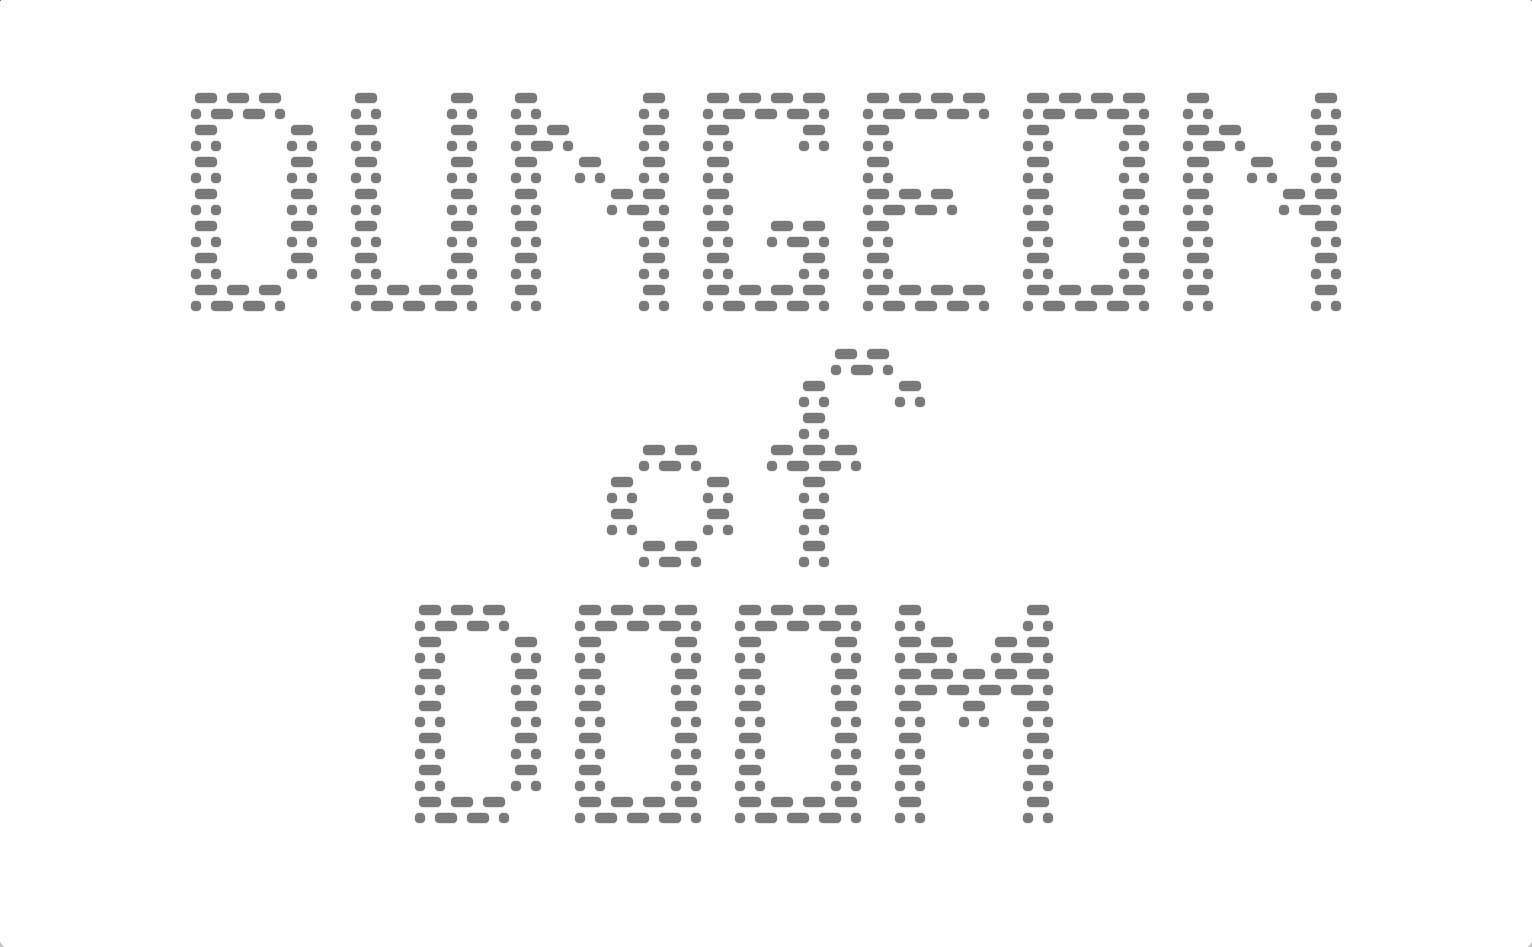
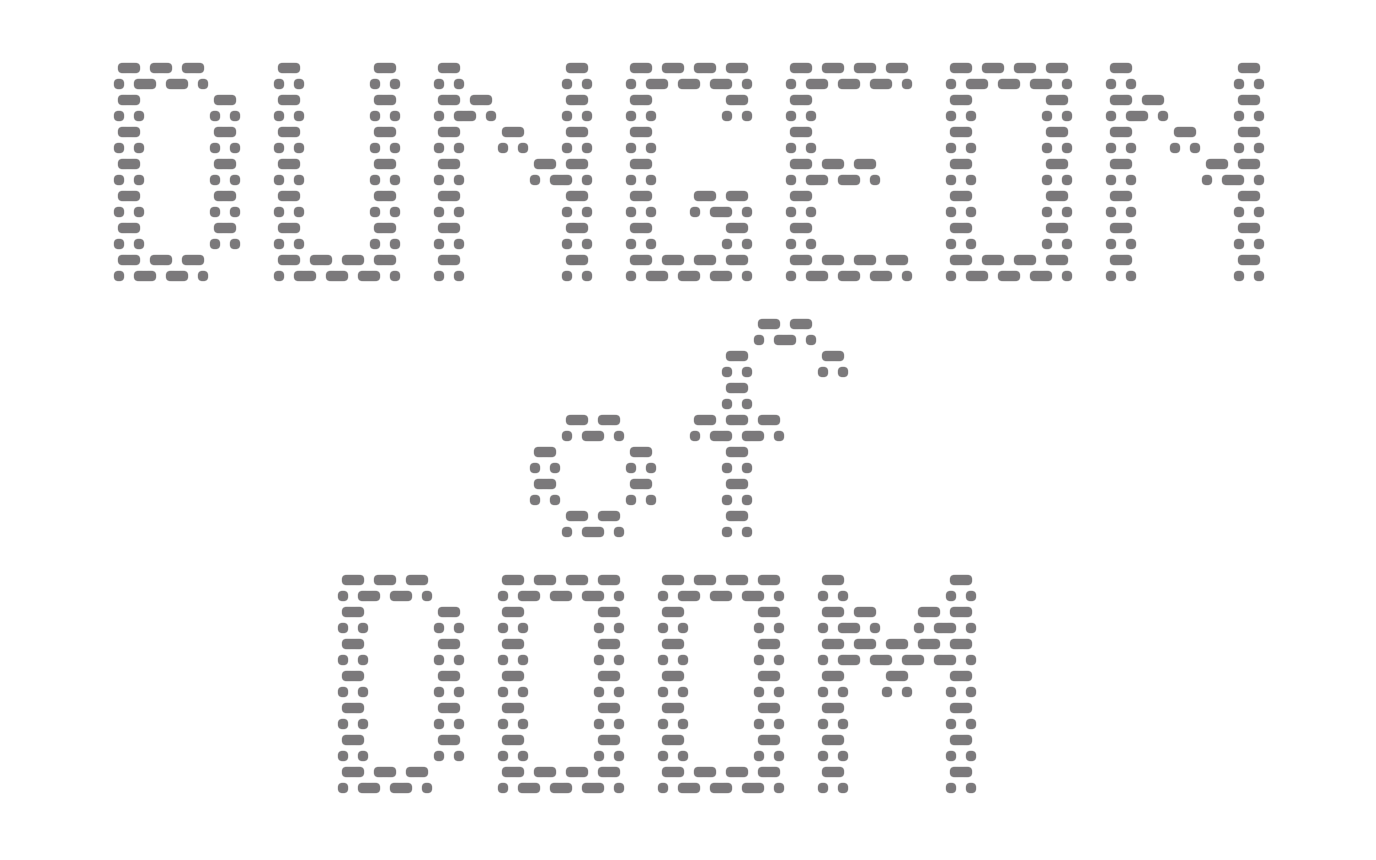
tighten up title image

Changed region(s): [[0.0625, 0.0605, 0.9375, 0.3326], [0.25, 0.3628, 0.7188, 0.9372]]

diff --git a/src/ui/TitleScreen.module.css b/src/ui/TitleScreen.module.css
@@ -15,6 +15,7 @@
 }
 
 .titleFrame {
+  padding: 12px 24px;
   width: 100%;
   border-radius: 12px;
   border: 1px solid var(--primary-light);
@@ -31,7 +32,7 @@
 .titleImage {
   display: block;
   width: 100%;
-  aspect-ratio: 1532 / 947;
+  aspect-ratio: 8 / 5;
   background-color: var(--text-primary);
   opacity: 0.75;
   mask: url(../assets/DofDTitle.png) center / contain no-repeat;
